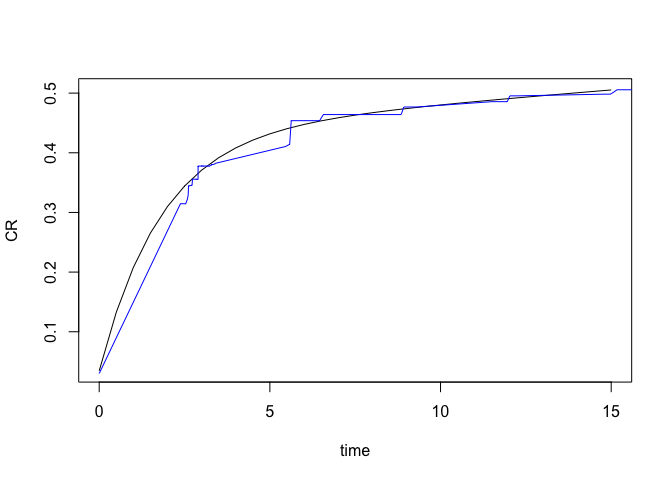
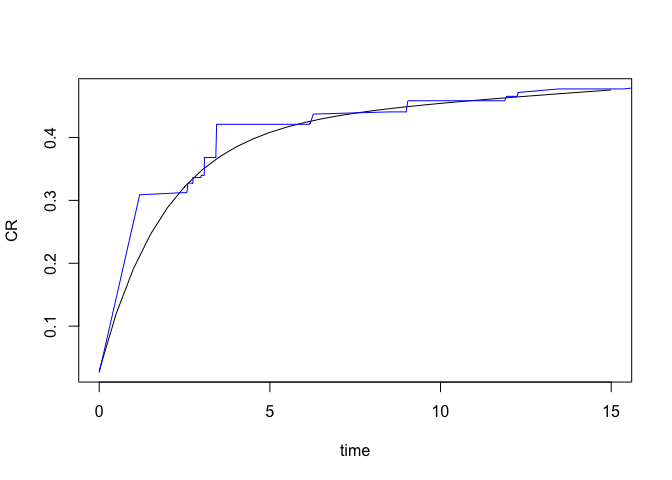
updated simulator and prediction functions to match changes in covariates

diff --git a/README.md b/README.md
@@ -52,23 +52,23 @@ the plot and compare to a non-parametric cumulative incidence curve:
 ``` r
 library(PICmodel)
 sim.thetas <- c(-5, -1.6, -1.2, -3)
-sim.dat <- PICmodel.simulator(1000, c(), c(), c(), sim.thetas, show_prob = 0.9, interval=3, include.h=T)
+sim.dat <- PICmodel.simulator(1000, params = sim.thetas, show_prob = 0.9, interval=3, include.h=T)
 head(sim.dat) # view simulated data
-#>        left     right z      age    age.std hpv cyt cause      actual
-#> 1 20.958787       Inf 0 52.84289  0.1031094   1   0     3 983.0845280
-#> 2  0.000000  6.239495 0 55.11465  0.1997830   1   1     2   3.6913789
-#> 3 24.157009       Inf 0 32.87648 -0.7465480   0   1     3  58.2826670
-#> 4 24.139272       Inf 0 40.08313 -0.4398735   0   1     3 452.5952674
-#> 5  0.000000  3.420154 0 56.78090  0.2706892   0   1     2   0.4380654
-#> 6  8.751095 12.161086 0 60.18916  0.4157253   1   0     3   9.3888763
+#>        left     right z      age     age.std hpv cyt cause      actual
+#> 1  0.000000  2.919475 0 54.31789  0.17906643   1   1     2   0.2295137
+#> 2 24.013075       Inf 0 48.43769 -0.07028581   0   0     3 524.4353027
+#> 3 23.518605       Inf 0 41.35735 -0.37053038   1   1     3 498.4729521
+#> 4 23.981820       Inf 0 59.89597  0.41560720   1   1     3 452.1208752
+#> 5  9.041048 12.277403 0 57.69026  0.32207329   1   0     3   9.2900745
+#> 6  0.000000  2.814737 0 39.78798 -0.43708017   0   1     3   1.3926755
 
-sim.fit <- PICmodel.fit(c(), c(), c(), sim.dat) # fit model to simulated data
+sim.fit <- PICmodel.fit(data=sim.dat) # fit model to simulated data
 sim.fit$summary # view model fit summary
 #>        param theta.hat std.dev   lower   upper
-#> h          h   -4.6724  0.1255 -4.9184 -4.4265
-#> g0 intercept   -1.5026  0.0829 -1.6651 -1.3401
-#> w0 intercept   -1.1412  0.0981 -1.3335 -0.9489
-#> p0 intercept   -3.3329  0.1851 -3.6957 -2.9701
+#> h          h   -4.9205  0.1469 -5.2084 -4.6325
+#> g0 intercept   -1.5805  0.0856 -1.7483 -1.4128
+#> w0 intercept   -1.1653  0.1038 -1.3688 -0.9619
+#> p0 intercept   -3.5134  0.1972 -3.8999 -3.1269
 
 sim.predict <- PICmodel.predict(data=sim.dat[1,], time.points = seq(0, 15, 0.5), fit=sim.fit)
 
@@ -85,30 +85,30 @@ lines(sim.km.fit$time, 1-sim.km.fit$surv, col='blue')
 To add covariates to the model we specify them separately for the
 progression, clearance, and prevalence parameters. For example if we
 wanted to add HPV16 as a covariate for progression and abnormal cytology
-as a covariate for prevalence then we would d the following:
+as a covariate for prevalence then we would do the following:
 
 ``` r
 
 sim.thetas.cov <- c(-5, -1.6, 1, -1.2, -3, 4)
-sim.dat2 <- PICmodel.simulator(1000, c("hpv"), c(), c("cyt"), sim.thetas.cov, show_prob = 0.9, interval=3, include.h=T)
+sim.dat2 <- PICmodel.simulator(1000, prog_model = "prog ~ hpv", prev_model = "prev ~ cyt", sim.thetas.cov, show_prob = 0.9, interval=3, include.h=T)
 head(sim.dat2) # view simulated data
-#>       left   right z      age     age.std hpv cyt cause     actual
-#> 1  0.00000 3.29315 0 32.60925 -0.75071887   1   0     2   0.342287
-#> 2  0.00000 0.00000 1 50.28429  0.01579363   0   1     1   0.000000
-#> 3 24.20113     Inf 0 36.72282 -0.57232613   0   0     3 362.487660
-#> 4  0.00000 0.00000 1 30.15812 -0.85701690   0   1     1   0.000000
-#> 5  0.00000 0.00000 1 46.04396 -0.16809635   0   1     1   0.000000
-#> 6  0.00000 0.00000 1 46.10376 -0.16550329   0   1     1   0.000000
+#>       left    right z      age     age.std hpv cyt cause     actual
+#> 1 23.74135      Inf 0 60.23877  0.43826010   0   1     3  98.454106
+#> 2 24.09672      Inf 0 68.94829  0.81634768   0   1     3  62.455445
+#> 3  0.00000 2.817943 0 53.68294  0.15366648   1   0     2   1.761897
+#> 4 24.04198      Inf 0 51.63299  0.06467654   1   0     3 128.166204
+#> 5 24.11061      Inf 0 36.04632 -0.61195336   0   0     3 269.388102
+#> 6  0.00000 0.000000 1 62.60351  0.54091556   0   1     1   0.000000
 
-sim.fit2 <- PICmodel.fit(c("hpv"), c(), c("cyt"), sim.dat2) # fit model to simulated data
+sim.fit2 <- PICmodel.fit(sim.dat2, prog_model = "prog ~ hpv", prev_model = "prev ~ cyt") # fit model to simulated data
 sim.fit2$summary # view model fit summary
 #>        param theta.hat std.dev   lower   upper
-#> h          h   -4.9112  0.1862 -5.2762 -4.5463
-#> g0 intercept   -1.4311  0.1133 -1.6532 -1.2090
-#> g1       hpv    0.9781  0.1545  0.6753  1.2809
-#> w0 intercept   -1.1209  0.1235 -1.3629 -0.8788
-#> p0 intercept   -3.0578  0.2126 -3.4745 -2.6411
-#> p1       cyt    4.0741  0.2404  3.6029  4.5453
+#> h          h   -5.0537  0.2185 -5.4819 -4.6254
+#> g0 intercept   -1.6742  0.1105 -1.8908 -1.4577
+#> g1       hpv    0.9791  0.1510  0.6831  1.2750
+#> w0 intercept   -1.2833  0.1271 -1.5325 -1.0342
+#> p0 intercept   -2.5920  0.1702 -2.9256 -2.2584
+#> p1       cyt    3.4785  0.2039  3.0789  3.8782
 
 sim.predict2 <- PICmodel.predict(data=data.frame(hpv = c(1, 1, 0, 0), cyt=c(1, 0, 1, 0)), 
                               time.points = seq(0, 15, 0.5), fit=sim.fit2)
